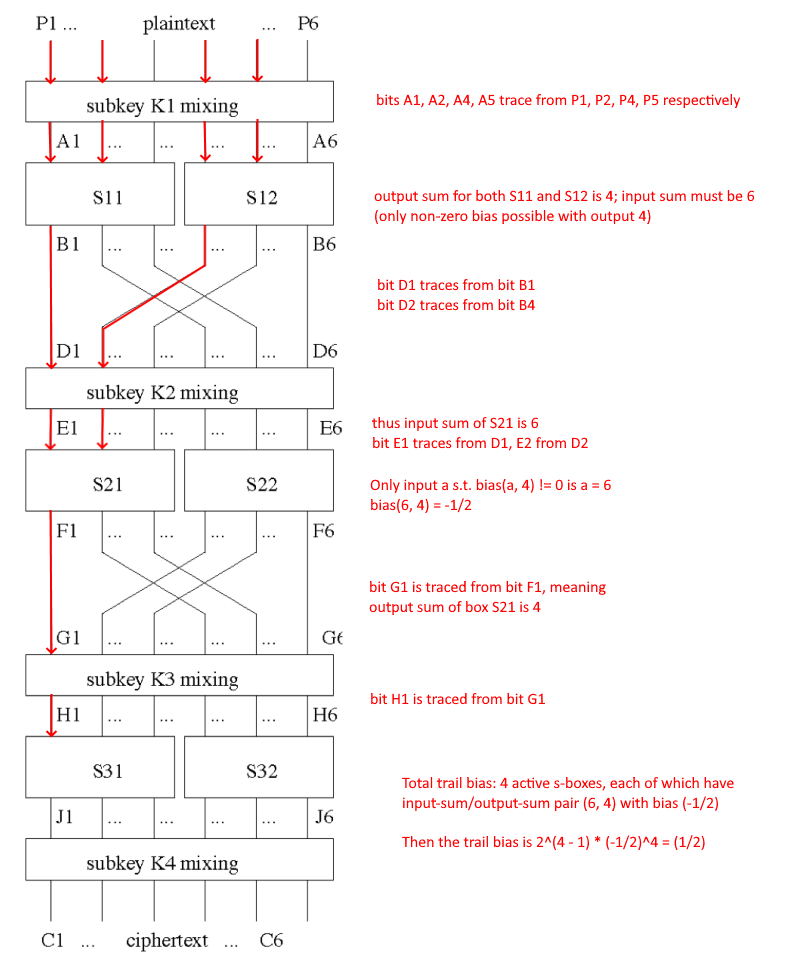
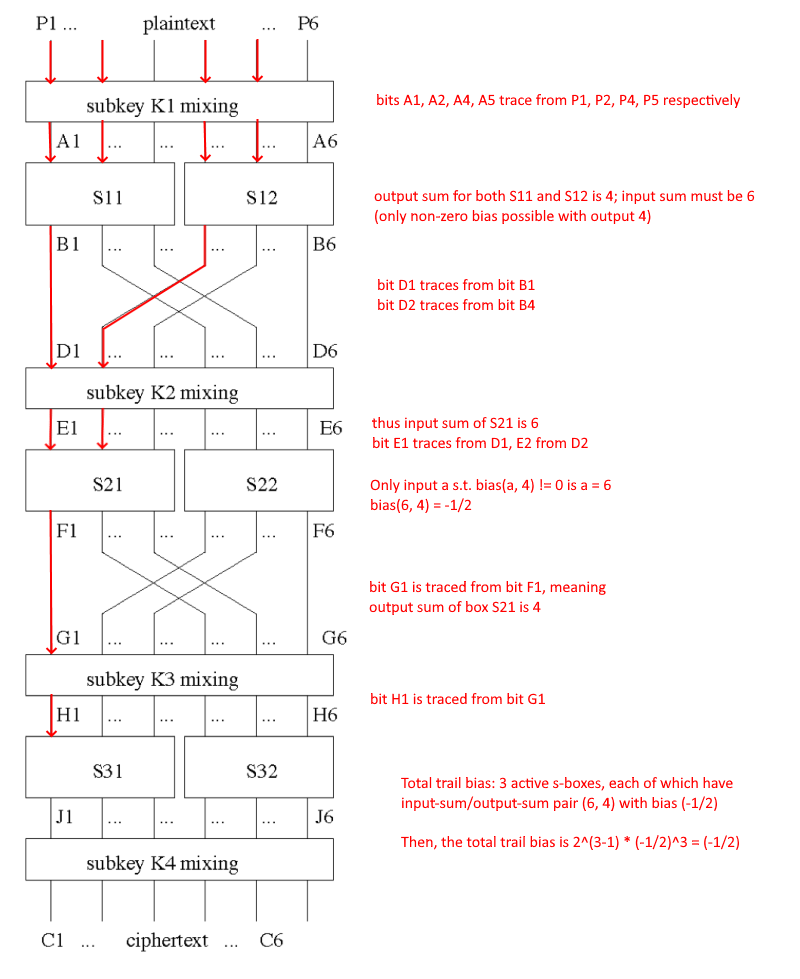
fixed trail calculations

Changed region(s): [[0.5, 0.858, 0.9062, 0.8887], [0.5, 0.7967, 0.9062, 0.8274]]

diff --git a/spn.py b/spn.py
@@ -1,6 +1,6 @@
 # Filename: spn.py
 # Author: MATH 4175 Group 7 (Andrew Tran, Anthony Tran, Jack Greer, Jason Pak, Michael Peters)
-# Date: 6 Nov 2022 (Date Last Modified: 12 Nov 2022)
+# Date: 6 Nov 2022 (Date Last Modified: 13 Nov 2022)
 # Description: This file contains a Python algorithm that performs a linear attack
 # on the "Baby SPN" and partially finds the fourth-round key K_4. 
 # We are not given enough plaintext/ciphertext pairs to determine the full key; only the first
@@ -61,8 +61,8 @@ print(tabulate(normalized_linear_approx_table,\
 # we're done
 
 # I have this on paper right now, but the bias is determined as follows:
-# 4 active s-boxes, each of which has bias -1/2 ((N_L(6, 4) - 4)/8)
-# Then the total bias is 2^(4 - 1) * (-1/2)^4 = 8 / 16 = 1 / 2
+# 3 active s-boxes, each of which has bias -1/2 ((N_L(6, 4) - 4)/8)
+# Then the total bias is 2^(3 - 1) * (-1/2)^3 = -4 / 8 = -1 / 2
 
 # Launch attack: For K^4_1, K^4_2, K^4_3 in range (0b000, 0b111):
 # Set count = 0
@@ -75,10 +75,9 @@ print(tabulate(normalized_linear_approx_table,\
 
 # MOST guesses for K^4_1, K^4_2, K^4_3 will have a count of |plaintext-ciphertext pairs| / 2
 # in our case, we have 3 pairs, so most guesses will have a count of 3
-# the correct guess will have a count of (6 / 2)(1 +- bias(trail)) = 3(1 +- 1/2) = 3/2, 9/2
-# so the correct guess will probably have a count of 2 or 4
-# I bet one guess will be 2, one will be 4, and the rest will be 3
-
+# the correct guess will have a count of (6 / 2)(1 +- bias(trail)) = 3(1 -+ 1/2) = 3/2, 9/2
+# We will find the correct guess(es) by finding the MAXIMUM difference from 3, as
+# detailed in slide deck 4.3
 count = [0 for x in range(8)]
 for k_guess in range(8):
     for pair_index in range(6):
@@ -94,7 +93,7 @@ for k_guess in range(8):
         j = k_guess ^ string_to_bin_num[cipher_first_half]
         
         h = pi_s_inv[j]
-        # first bit of h will be the same as h >> 2 if we want to be cute about it
+        # Grab the first bit of H
         h_1 = (h & 4) >> 2
         
         #  compute sum = p_1 XOR p_2 XOR p_4 XOR p_5 XOR h_1
